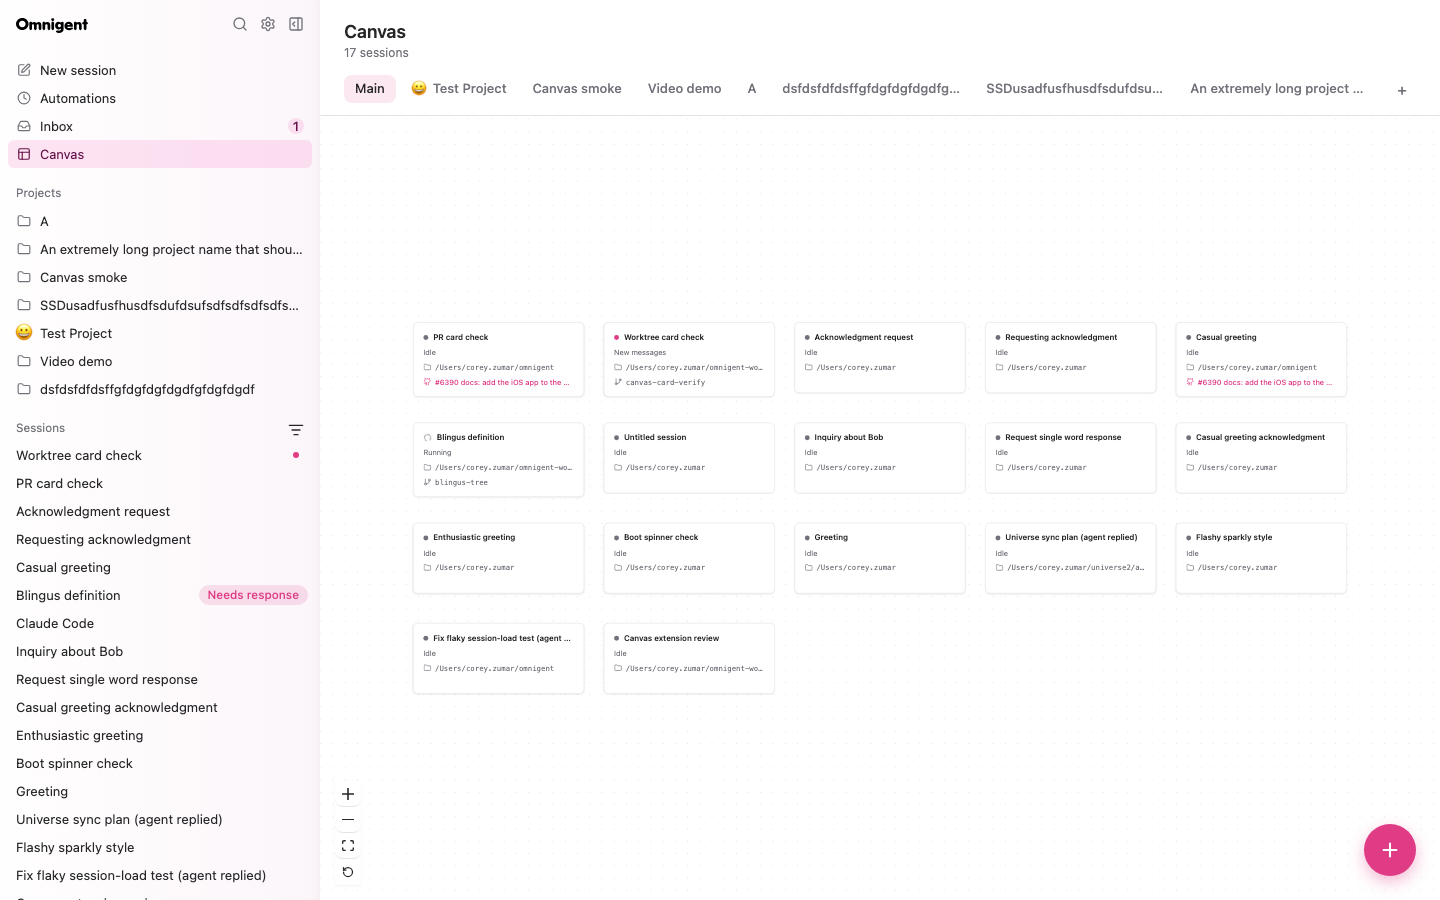
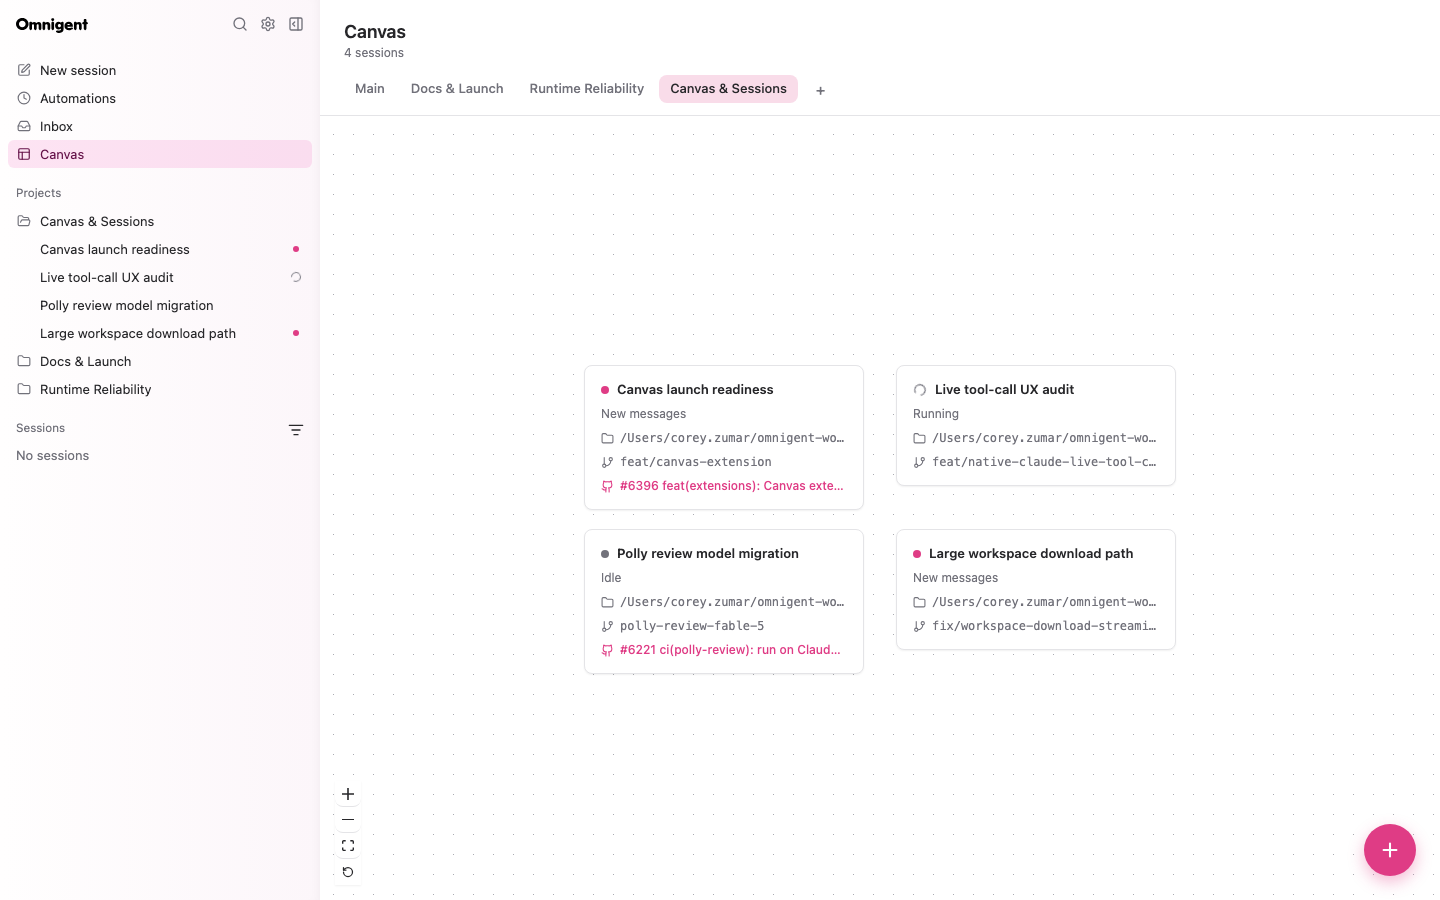
docs(canvas): replace demo screenshot with real sessions (#6440)

diff --git a/extensions/canvas/README.md b/extensions/canvas/README.md
@@ -4,7 +4,7 @@ An independently installable browser extension that visualizes accessible Omnige
 
 Each card shows the session status, title, and working directory. Double-click a card (or focus it and press Enter/Space) to open Omnigent's existing session transcript.
 
-![Canvas showing three sessions](../../docs/demo/canvas.png)
+![Canvas organizing live Omnigent sessions by project](../../docs/demo/canvas.png)
 
 ## Install from this checkout
 
